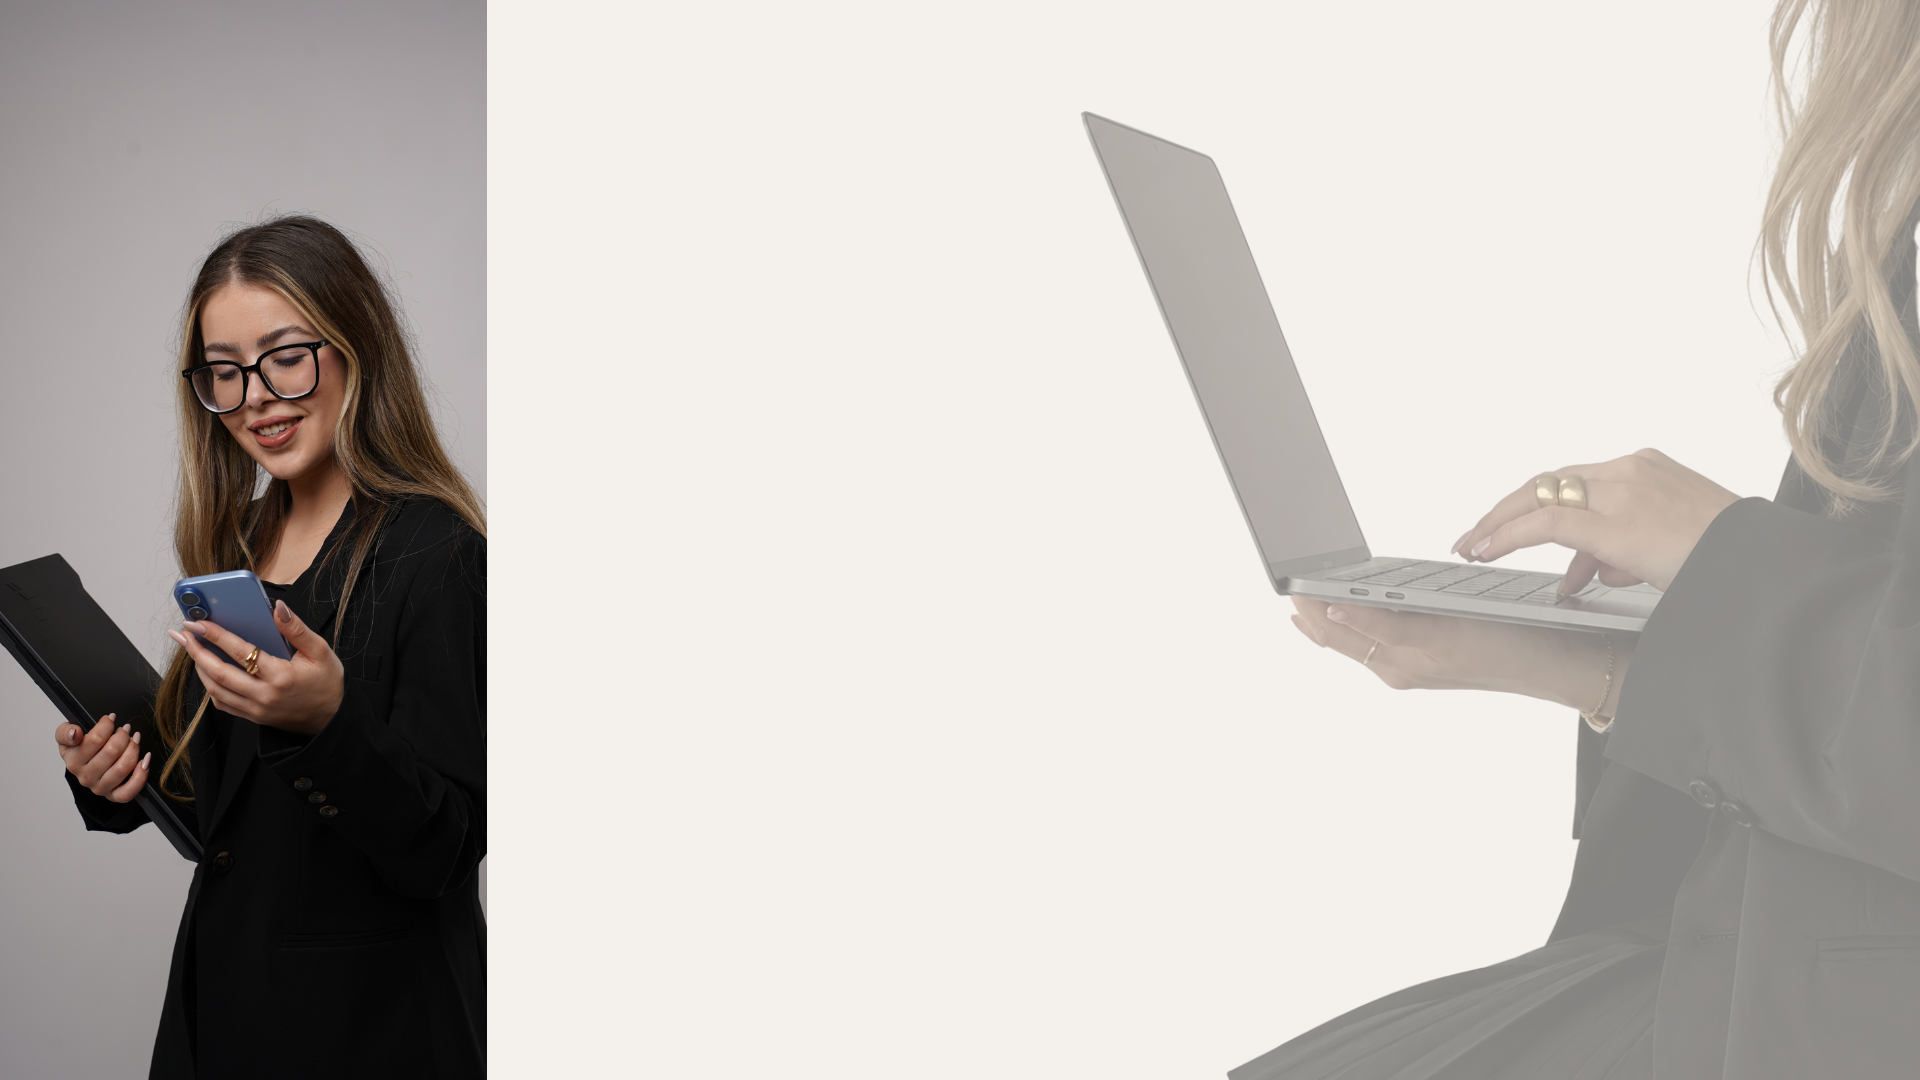
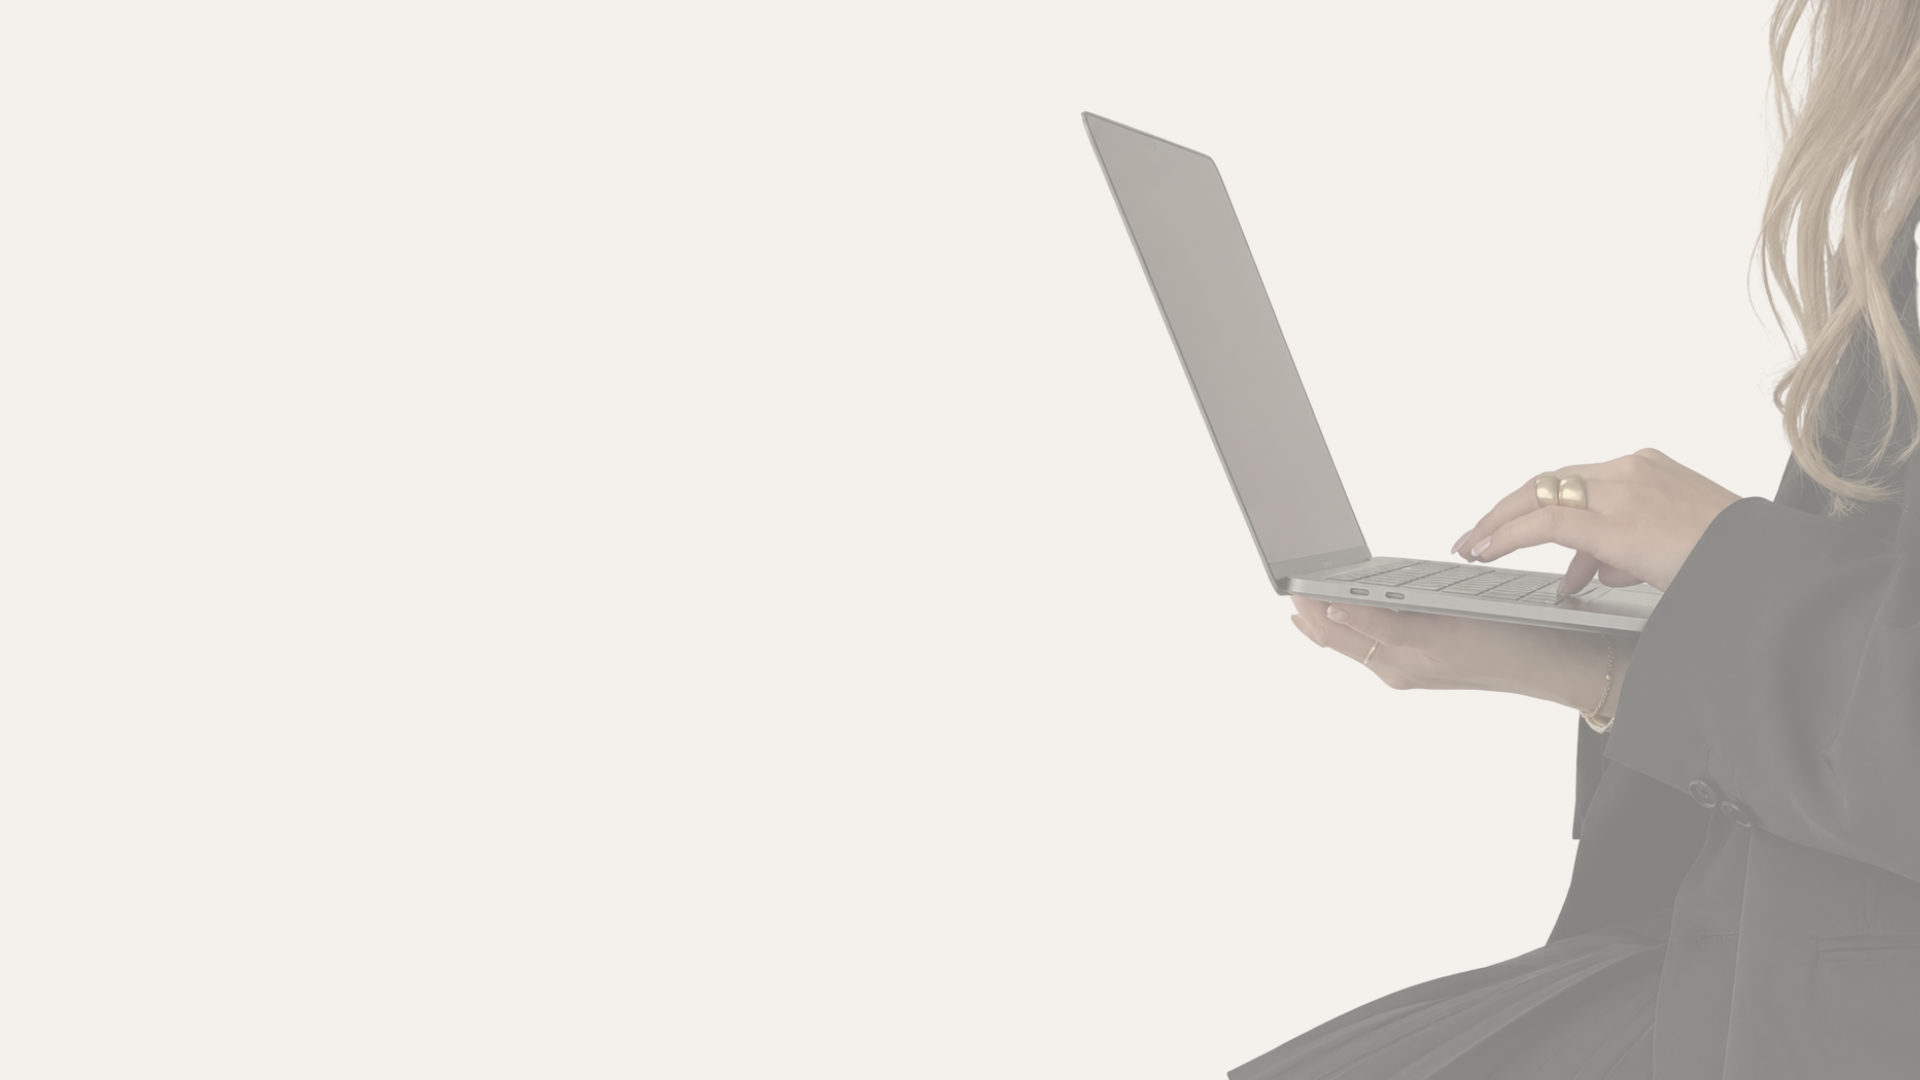
Refactor code structure for improved readability and maintainability

Changed region(s): [[0.0, 0.0, 0.2812, 1.0]]

diff --git a/components/NewLandingPage.tsx b/components/NewLandingPage.tsx
@@ -46,15 +46,6 @@ const processSteps = [
     n: '01',
     title: 'פגישת אסטרטגיה',
     desc: 'פגישת עומק אישית שבה נבין את העסק שלך, נדייק קהל יעד, שירותים, בידול, מסרים ונבנה יחד אסטרטגיית תוכן מותאמת.',
-    lead: 'בפגישה נעבוד על:',
-    points: [
-      'היכרות מעמיקה עם העסק',
-      'קהל היעד והלקוחה האידיאלית',
-      'השירותים והפרויקטים המרכזיים',
-      'הבידול והמסר השיווקי',
-      'עמודי התוכן וכיווני היצירה',
-    ],
-    note: 'כתיבת תסריטים ובניית יום צילום',
     image: '/assets/landing/circle/5.png',
     imageAlt: 'פגישת עבודה ותכנון אסטרטגי',
     Icon: CalendarDays,
@@ -63,14 +54,6 @@ const processSteps = [
     n: '02',
     title: 'יום צילום + יצירת תוכן',
     desc: 'יום צילום מתוכנן מראש, בהתאם לאסטרטגיה ולמטרות העסק, ליצירת מאגר תוכן איכותי, מקצועי ומדויק.',
-    lead: 'מה יוצא מיום הצילום?',
-    points: [
-      '6 רילסים ערוכים · שווי',
-      '3 פוסטים מעוצבים · שווי',
-      'חומרי גלם לשימוש עתידי',
-      'תמונות וקטעי וידאו נוספים לסטורי',
-      'תוכן מגוון שניתן להשתמש בו לאורך זמן',
-    ],
     image: '/assets/landing/circle/3.png',
     imageAlt: 'מצלמה על חצובה במהלך יום צילום',
     Icon: Camera,
@@ -79,29 +62,16 @@ const processSteps = [
     n: '03',
     title: 'פגישת Instagram + גאנט תוכן',
     desc: 'אחרי שיצרנו את התוכן, הופכים אותו לנוכחות ברורה ומסודרת בעמוד.',
-    lead: 'בפגישה נעבוד על:',
-    points: [
-      'מעבר על כל התכנים שיצרנו',
-      'סדר ונראות עמוד האינסטגרם',
-      'בניית גאנט תוכן חודשי',
-      'סדר פרסום ברור ומדויק',
-      'דיוק המסרים והכותרות',
-      'כיוון להמשך הפעילות בעמוד',
-    ],
     image: '/assets/landing/circle/7.png',
     imageAlt: 'תכנון וארגון תכנים לרשתות החברתיות',
     Icon: Instagram,
   },
 ];
 
-const stats = [
-  { value: 'עשרות', label: 'פרויקטים' },
-  { value: '30+', label: 'מעצבות שעבדו איתי' },
-  { value: 'רבים', label: 'ימי צילום' },
-  { value: '100%', label: 'תוכן מותאם אישית' },
-];
-
 const videoResults = Array.from({ length: 14 }, (_, i) => 101 + i);
+
+const profilePictures = [1, 2, 3, 4, 5, 6, 7, 8, 9];
+
 
 const circleItems = [
   { image: '/assets/landing/circle/1.png', label: 'העסק הבסיס להכל' },
@@ -190,16 +160,20 @@ const CircleSection: React.FC = () => {
   );
 };
 
-// A draggable, snap-scrolling filmstrip of scattered photos that float gently and straighten on hover.
+// An auto-scrolling marquee of scattered photos that float gently and straighten on hover (pauses on hover).
 const ResultsCarousel: React.FC<{ items: number[] }> = ({ items }) => {
   const tilts = ['-rotate-3', 'rotate-2', '-rotate-1', 'rotate-3', 'rotate-1', '-rotate-2', 'rotate-0'];
+  const loop = [...items, ...items];
   return (
-    <div>
-      <div className="flex gap-5 overflow-x-auto snap-x snap-mandatory pb-6 px-6 md:px-16 -mx-6 md:-mx-16 no-scrollbar cursor-grab active:cursor-grabbing">
-        {items.map((n, i) => (
+    <div dir="ltr" className="group -mx-6 overflow-hidden py-4 md:-mx-16">
+      <motion.div
+        className="flex w-max group-hover:[animation-play-state:paused]"
+        style={{ animation: `results-marquee ${items.length * 4}s linear infinite` }}
+      >
+        {loop.map((n, i) => (
           <motion.div
-            key={n}
-            className={`snap-center flex-shrink-0 w-40 sm:w-48 md:w-56 bg-white p-2 pb-3 rounded-2xl shadow-lg border border-black/5 transition-transform duration-300 hover:!rotate-0 hover:scale-105 hover:shadow-2xl ${tilts[i % tilts.length]}`}
+            key={i}
+            className={`mr-5 flex-shrink-0 w-40 sm:w-48 md:w-56 bg-white p-2 pb-3 rounded-2xl shadow-lg border border-black/5 transition-transform duration-300 hover:!rotate-0 hover:scale-105 hover:shadow-2xl ${tilts[i % tilts.length]}`}
             animate={{ y: [0, -8, 0] }}
             transition={{ duration: 3 + (i % 4) * 0.4, repeat: Infinity, ease: 'easeInOut', delay: (i % 5) * 0.25 }}
           >
@@ -213,12 +187,11 @@ const ResultsCarousel: React.FC<{ items: number[] }> = ({ items }) => {
             </div>
           </motion.div>
         ))}
-      </div>
-      <p className="text-center text-sm text-[#1c1a17]/40 mt-2">← גררי לצדדים לעוד תוצאות →</p>
+      </motion.div>
+      <style>{`@keyframes results-marquee { from { transform: translateX(0); } to { transform: translateX(-50%); } }`}</style>
     </div>
   );
 };
-
 const NewLandingPage: React.FC = () => {
   return (
     <div className="bg-[#faf7f2] text-[#1c1a17] font-sans" dir="rtl">
@@ -371,13 +344,23 @@ const NewLandingPage: React.FC = () => {
         </section> */}
 
         {/* 4 - About Elisheva */}
-        <section id="about" className="relative overflow-hidden px-6 md:px-16 py-28 border-b border-black/10">
+        <section id="about" className="relative overflow-hidden px-6 md:px-16 py-28 md:min-h-screen md:flex md:items-center border-b border-black/10">
           <div aria-hidden="true" className="absolute inset-0 hidden bg-[url('/assets/aboutBG.png')] bg-cover bg-center md:block" />
-          <div className="relative max-w-6xl mx-auto grid md:grid-cols-[1.1fr_0.9fr] gap-14 items-center">
-            <Reveal>
+                    <div aria-hidden="true" className="absolute inset-0 hidden bg-white/45 md:block" />
+                    <motion.img
+                      src="/assets/elisheva.png"
+                      alt="אלישבע לב"
+                      initial={{ opacity: 0, x: -120 }}
+                      whileInView={{ opacity: 1, x: 0 }}
+                      viewport={{ once: true, amount: 0.3 }}
+                      transition={{ duration: 0.9, ease: 'easeOut' }}
+                      className="pointer-events-none absolute inset-y-0 left-0 hidden h-full w-auto max-w-[32%] object-contain object-bottom md:block"
+                    />
+                    <div className="relative mx-auto flex w-full max-w-3xl flex-col items-center justify-center gap-10">
+                      <Reveal className="text-center">
               <SectionNumber n="04" label="מי מובילה את זה" />
               <h2 className="text-3xl md:text-5xl font-display font-black mb-6">נעים מאוד, אני אלישבע.</h2>
-              <div className="space-y-5 text-lg text-[#1c1a17]/75 font-light leading-relaxed">
+              <div className="space-y-5 text-lg text-center text-[#1c1a17]/75 font-light leading-relaxed">
                 <p>
                   בשנה האחרונה צילמתי עשרות פרויקטים, עבדתי לצד מעצבות, ישבתי איתן על העסק, זיקקתי אסטרטגיות, בניתי
                   תוכן והפכתי את העבודה שלהן לסיפור שאפשר לראות ולהרגיש בדיגיטל.
@@ -401,13 +384,15 @@ const NewLandingPage: React.FC = () => {
           </div>
         </section>
 
+        <CircleSection />
+
         {/* 5 - The Solution / Premium Process */}
         <section id="process" className="border-b border-black/10 bg-[#f4f0eb] px-6 py-16 md:px-16 md:py-20">
           <div className="mx-auto max-w-5xl">
             <div className="divide-y divide-[#1c1a17]/70">
               {processSteps.map((step, i) => (
                 <Reveal key={step.n} delay={i * 0.08}>
-                  <article className="grid grid-cols-[minmax(0,1fr)_88px] items-center gap-x-4 gap-y-5 py-9 first:pt-0 last:pb-0 md:grid-cols-[minmax(0,1fr)_116px_minmax(0,1fr)] md:gap-x-7 md:py-10">
+                  <article className="grid grid-cols-[minmax(0,1fr)_88px] items-center gap-x-4 py-8 md:grid-cols-[minmax(0,1fr)_116px] md:gap-x-8 md:py-10">
                     <div className="text-right">
                       <div className="mb-3 flex items-center gap-3">
                         <span className="font-display text-4xl leading-none text-[#46382f] md:text-5xl">{step.n}</span>
@@ -417,7 +402,7 @@ const NewLandingPage: React.FC = () => {
                       <p className="text-sm leading-relaxed text-[#1c1a17]/80 md:text-base">{step.desc}</p>
                     </div>
 
-                    <div className="relative row-span-2 flex h-[88px] w-[88px] items-center justify-center md:row-span-1 md:h-[116px] md:w-[116px]">
+                    <div className="relative flex h-[88px] w-[88px] items-center justify-center md:h-[116px] md:w-[116px]">
                       <img
                         src={step.image}
                         alt={step.imageAlt}
@@ -426,23 +411,12 @@ const NewLandingPage: React.FC = () => {
                       />
                       <step.Icon aria-hidden="true" className="absolute -top-3 left-0 h-8 w-8 stroke-[1.5] text-[#9bc3de] drop-shadow-sm md:-top-4 md:-left-2 md:h-10 md:w-10" />
                     </div>
-
-                    <div className="col-span-2 text-right md:col-span-1">
-                      <p className="mb-1 text-sm font-semibold md:text-base">{step.lead}</p>
-                      <ul className="list-inside list-disc space-y-0.5 text-sm leading-snug text-[#1c1a17]/85 md:text-base">
-                        {step.points.map((point) => <li key={point}>{point}</li>)}
-                      </ul>
-                      {step.note && <p className="mt-2 text-sm font-medium leading-snug md:text-base">{step.note}</p>}
-                    </div>
                   </article>
                 </Reveal>
               ))}
             </div>
-            <p className="mt-10 text-center font-display text-lg text-[#46382f]/75 md:mt-12 md:text-xl">Elisheva Lev Social</p>
           </div>
         </section>
-
-        <CircleSection />
 
         {/* 7 - The Promise */}
         <section id="promise" className="px-6 md:px-16 py-32 border-b border-black/10 text-center">
@@ -471,14 +445,29 @@ const NewLandingPage: React.FC = () => {
         <section id="gallery" className="px-6 md:px-16 py-28 border-b border-black/10">
           <div className="max-w-6xl mx-auto">
             <SectionNumber n="07" label="הוכחות" />
-            <div className="grid grid-cols-2 md:grid-cols-4 gap-8 mb-16">
-              {stats.map((stat, i) => (
-                <Reveal key={stat.label} delay={i * 0.1} className="text-center border-r border-black/10 first:border-r-0 px-4">
-                  <p className="text-3xl md:text-4xl font-display font-black text-[#79bddc9e]">{stat.value}</p>
-                  <p className="text-sm text-[#1c1a17]/60 mt-2">{stat.label}</p>
-                </Reveal>
-              ))}
-            </div>
+            <Reveal className="mb-16 text-center">
+              <h2 className="text-2xl md:text-4xl font-display font-black leading-snug text-[#1c1a17]">
+                עשרות פרויקטים · עשרות מעצבות · מאות תכנים
+              </h2>
+              <p className="mt-2 text-xl md:text-3xl font-display font-bold text-[#9bc3de]">
+                ניסיון מעשי בעולם העיצוב, השיווק והתוכן.
+              </p>
+              <div dir="ltr" className="-mx-6 mt-12 overflow-hidden md:-mx-16">
+                <div className="flex w-max hover:[animation-play-state:paused]" style={{ animation: 'results-marquee 40s linear infinite' }}>
+                  {[...profilePictures, ...profilePictures].map((n, i) => (
+                    <img
+                      key={i}
+                      src={`/assets/profilesPictures/${n}.png`}
+                      alt=""
+                      aria-hidden="true"
+                      className="mr-6 h-20 w-20 flex-shrink-0 rounded-full object-cover shadow-md md:mr-10 md:h-32 md:w-32"
+                      loading="lazy"
+                    />
+                  ))}
+                </div>
+              </div>
+              <style>{`@keyframes results-marquee { from { transform: translateX(0); } to { transform: translateX(-50%); } }`}</style>
+            </Reveal>
 
             <Reveal className="mb-16">
               <ResultsCarousel items={videoResults} />
